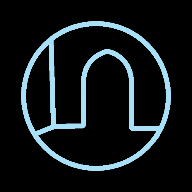
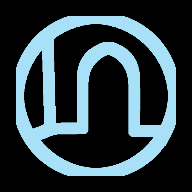
Give the Ejdersted home-screen mark a heavier stroke and serve it like Haven.
The thin circle dropped out at icon size, so Safari drew the letter E on black.

Changed region(s): [[0.0625, 0.0625, 0.9375, 0.9375]]

diff --git a/frontend/static/sw.js b/frontend/static/sw.js
@@ -1,4 +1,4 @@
-const CACHE = 'hue-v108';
+const CACHE = 'hue-v109';
 const PRECACHE = ['/', '/manifest.json'];
 
 self.addEventListener('install', (e) => {

diff --git a/backend/main.py b/backend/main.py
@@ -3870,6 +3870,12 @@ _ICON_FILES = (
     ("favicon-32x32.png", "image/png"),
     ("favicon-96x96.png", "image/png"),
     ("haven-icon-v4.png", "image/png"),
+    ("ejdersted-icon-v2.png", "image/png"),
+    ("ejdersted-manifest-192.png", "image/png"),
+    ("ejdersted-manifest-512.png", "image/png"),
+    ("ejdersted-favicon-32.png", "image/png"),
+    ("ejdersted-favicon-96.png", "image/png"),
+    ("ejdersted-favicon.ico", "image/x-icon"),
     ("web-app-manifest-192x192.png", "image/png"),
     ("web-app-manifest-512x512.png", "image/png"),
 )
@@ -3915,6 +3921,7 @@ class _IconCacheMiddleware:
         if not (
             path.startswith("/favicon")
             or path.startswith("/haven-icon")
+            or path.startswith("/ejdersted-")
             or "apple-touch-icon" in path
         ):
             await self.app(scope, receive, send)
